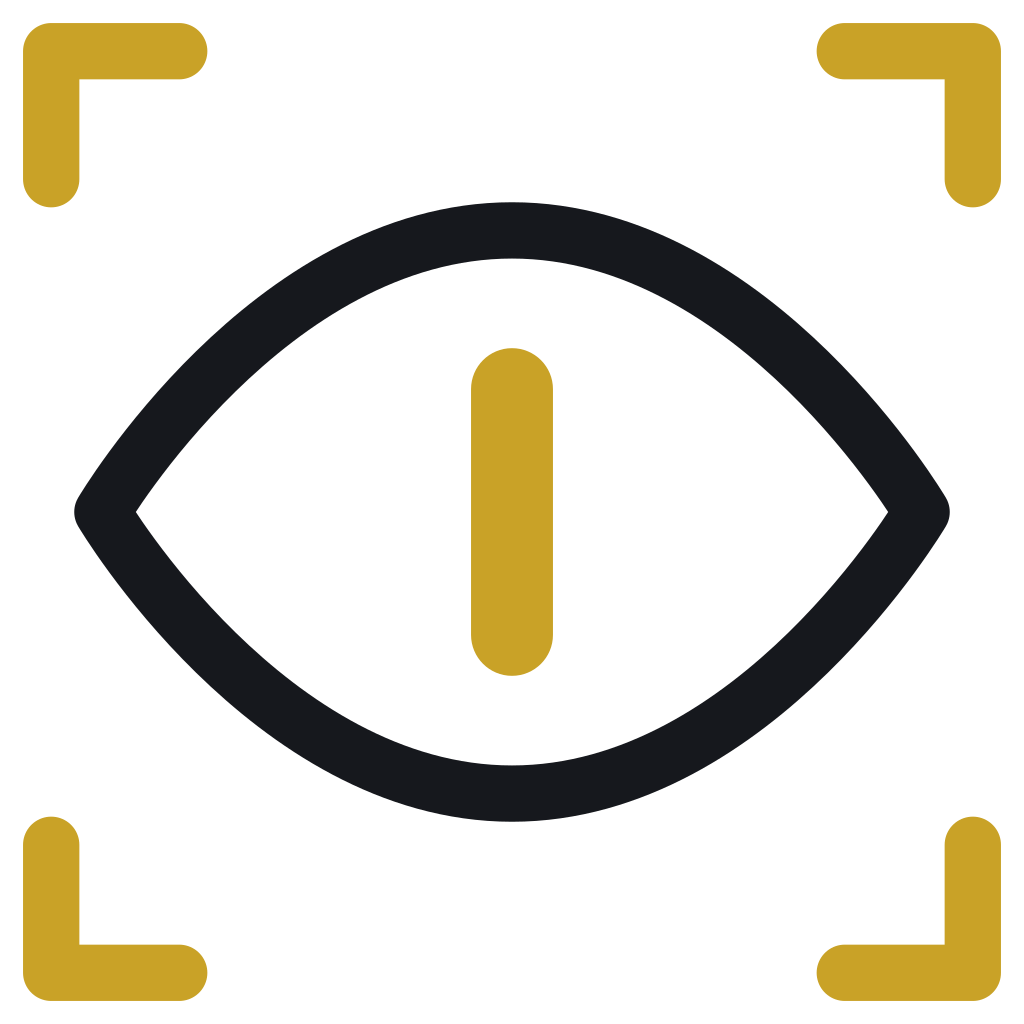
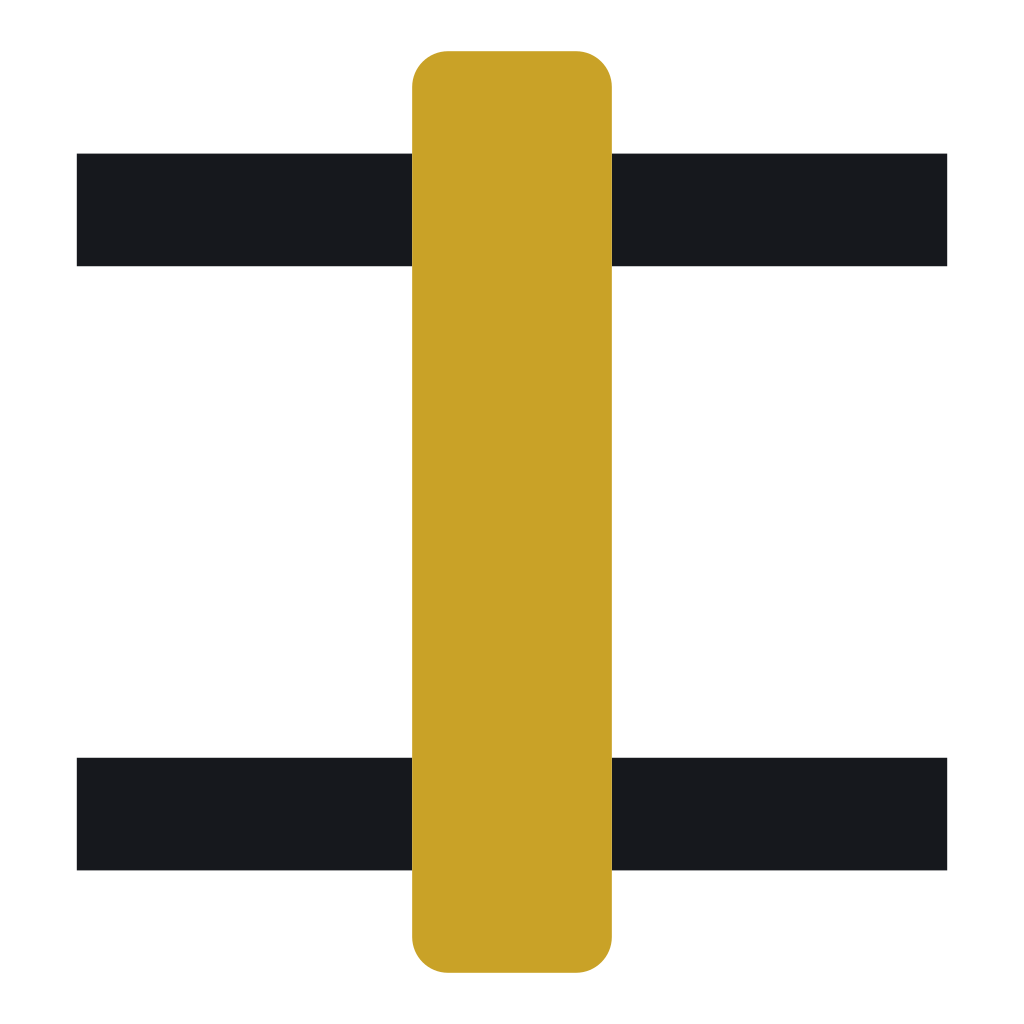
feat: new brand mark — a direct line through the layers (#2)
Replaces the eye-and-reticle mark, which used two security-branding clichés at once, with a direct line through the layers: two ink rails interrupted by a single unbroken gold stem, silhouetted as a capital I for Invision and for the first-person-singular voice.

Geometry stays centralised in src/lib/brand.ts and mirrored in the generator, so all 20 downloadable assets regenerate from one definition. Favicon and mobile header use the ink tile so the gold stem carries at 16px.

diff --git a/src/lib/brand.ts b/src/lib/brand.ts
@@ -1,10 +1,18 @@
 /**
  * Invision Solutions brand geometry.
  *
- * The mark is a lens: two mirrored arcs forming an eye, with a vertical bar at
- * its centre. It reads as "in-vision" — seeing clearly — and as the letter I of
- * Invision, the bar doubling as an iris. The four corner ticks are a scan
- * reticle, carrying the Zero Trust "verify, don't assume" idea into the mark.
+ * The mark is a direct line through the layers. Two ink rails sit where the
+ * intermediaries in a conventional consultancy would be — the account manager,
+ * the junior, the chain of approvals — and a single gold stem passes straight
+ * through both without stopping at either. The rails are interrupted where it
+ * passes, so the stem is visibly unbroken.
+ *
+ * The silhouette is a capital I, which carries two meanings at once: Invision,
+ * and the first person singular the whole brand is written in. "I", not "we".
+ *
+ * Deliberately not an eye, shield, padlock, or scan reticle. Current design
+ * guidance has the market oversaturated with those, and the previous mark used
+ * two of them.
  *
  * These constants are mirrored in scripts/generate-brand-assets.mjs, which
  * produces the downloadable files in public/brand/. Change both together.
@@ -19,17 +27,48 @@ export const BRAND_COLOURS = {
   slate: "#5C6068",
 } as const;
 
-/** Lens outline — two mirrored arcs meeting at left and right points. */
-export const LENS_PATH =
-  "M4 20C4 20 10.5 9 20 9C29.5 9 36 20 36 20C36 20 29.5 31 20 31C10.5 31 4 20 4 20Z";
+/** Horizontal extent of the rails, and the gap the stem passes through. */
+export const RAIL = {
+  left: 3,
+  right: 37,
+  gapLeft: 16.1,
+  gapRight: 23.9,
+  thickness: 4.4,
+  topY: 6,
+  bottomY: 29.6,
+} as const;
 
-/** The iris / letter-I bar at the centre of the lens. */
-export const IRIS = { x: 18.4, y: 13.6, w: 3.2, h: 12.8, r: 1.6 } as const;
+/**
+ * A rail, split either side of the stem. Drawn as one path with two subpaths
+ * so the interruption is part of the geometry rather than something layered
+ * on top — it stays correct when the mark is recoloured or scaled.
+ */
+export function railPath(y: number, thickness = RAIL.thickness): string {
+  return (
+    `M${RAIL.left} ${y} H${RAIL.gapLeft} V${y + thickness} H${RAIL.left} Z ` +
+    `M${RAIL.gapRight} ${y} H${RAIL.right} V${y + thickness} H${RAIL.gapRight} Z`
+  );
+}
 
-/** Corner reticle ticks — the verification motif. */
-export const RETICLE_PATHS = [
-  "M2 7V2H7",
-  "M33 2H38V7",
-  "M38 33V38H33",
-  "M7 38H2V33",
-] as const;
+/** The gold stem. Overshoots both rails so it reads as passing through them. */
+export const STEM = { x: 16.1, y: 2, w: 7.8, h: 36, r: 1.4 } as const;
+
+/** Tile-inset variant — tighter, so the glyph clears a rounded tile's corners. */
+export const TILE_GLYPH = {
+  railLeft: 7,
+  railRight: 33,
+  gapLeft: 17.1,
+  gapRight: 22.9,
+  thickness: 3.8,
+  topY: 11.5,
+  bottomY: 24.7,
+  stem: { x: 17.1, y: 8, w: 5.8, h: 24, r: 1.2 },
+} as const;
+
+export function tileRailPath(y: number): string {
+  const t = TILE_GLYPH;
+  return (
+    `M${t.railLeft} ${y} H${t.gapLeft} V${y + t.thickness} H${t.railLeft} Z ` +
+    `M${t.gapRight} ${y} H${t.railRight} V${y + t.thickness} H${t.gapRight} Z`
+  );
+}

diff --git a/src/components/logo.tsx b/src/components/logo.tsx
@@ -1,37 +1,48 @@
-import { LENS_PATH, IRIS, RETICLE_PATHS } from "@/lib/brand";
+import { RAIL, STEM, TILE_GLYPH, railPath, tileRailPath } from "@/lib/brand";
 
 type Tone = "light" | "dark";
 
+/**
+ * Bare mark — rails in the foreground colour, stem always gold. The stem is
+ * the constant: it is the thing that reads as Invision at a glance.
+ */
 function MarkArtwork({ tone }: { tone: Tone }) {
-  const stroke = tone === "dark" ? "var(--color-paper)" : "var(--color-ink)";
+  const rails = tone === "dark" ? "var(--color-paper)" : "var(--color-ink)";
   return (
     <>
-      <path
-        d={LENS_PATH}
-        stroke={stroke}
-        strokeWidth="2.2"
-        strokeLinejoin="round"
-        fill="none"
-      />
+      <path d={railPath(RAIL.topY)} fill={rails} />
+      <path d={railPath(RAIL.bottomY)} fill={rails} />
       <rect
-        x={IRIS.x}
-        y={IRIS.y}
-        width={IRIS.w}
-        height={IRIS.h}
-        rx={IRIS.r}
+        x={STEM.x}
+        y={STEM.y}
+        width={STEM.w}
+        height={STEM.h}
+        rx={STEM.r}
         fill="var(--color-gold)"
       />
-      {RETICLE_PATHS.map((d) => (
-        <path
-          key={d}
-          d={d}
-          stroke="var(--color-gold)"
-          strokeWidth="2.2"
-          strokeLinecap="round"
-          strokeLinejoin="round"
-          fill="none"
-        />
-      ))}
+    </>
+  );
+}
+
+/** Tile variant — a solid field so the mark stays assertive on any backdrop. */
+function TileArtwork({ tone }: { tone: Tone }) {
+  const field = tone === "dark" ? "var(--color-ink)" : "var(--color-gold)";
+  const rails = tone === "dark" ? "var(--color-paper)" : "var(--color-ink)";
+  const stem = tone === "dark" ? "var(--color-gold)" : "var(--color-ink)";
+  const g = TILE_GLYPH;
+  return (
+    <>
+      <rect width="40" height="40" rx="9" fill={field} />
+      <path d={tileRailPath(g.topY)} fill={rails} />
+      <path d={tileRailPath(g.bottomY)} fill={rails} />
+      <rect
+        x={g.stem.x}
+        y={g.stem.y}
+        width={g.stem.w}
+        height={g.stem.h}
+        rx={g.stem.r}
+        fill={stem}
+      />
     </>
   );
 }
@@ -54,29 +65,14 @@ function LogoMark({
       xmlns="http://www.w3.org/2000/svg"
       aria-hidden="true"
     >
-      {tile ? (
-        <>
-          <rect
-            width="40"
-            height="40"
-            rx="9"
-            fill={tone === "dark" ? "var(--color-ink)" : "var(--color-panel)"}
-          />
-          {/* Inset so the reticle ticks clear the tile's rounded corners. */}
-          <g transform="translate(5 5) scale(0.75)">
-            <MarkArtwork tone={tone} />
-          </g>
-        </>
-      ) : (
-        <MarkArtwork tone={tone} />
-      )}
+      {tile ? <TileArtwork tone={tone} /> : <MarkArtwork tone={tone} />}
     </svg>
   );
 }
 
 /**
  * Full lockup. The wordmark splits as In | vision — the two-tone treatment is
- * the point of the name, not decoration.
+ * the point of the name, not decoration, and it echoes the mark's gold stem.
  */
 function LogoLockup({
   size = 32,

diff --git a/src/app/brand/page.tsx b/src/app/brand/page.tsx
@@ -33,13 +33,13 @@ const FULL_LOGO: Asset[] = [
 
 const ICON: Asset[] = [
   { file: "invision-icon.svg", title: "SVG — transparent", note: "Vector · works on light backgrounds" },
-  { file: "invision-icon-dark.svg", title: "SVG — for dark backgrounds", note: "Vector · light lens stroke", dark: true },
+  { file: "invision-icon-dark.svg", title: "SVG — for dark backgrounds", note: "Vector · light rails, gold stem", dark: true },
   { file: "invision-icon-square.svg", title: "SVG — rounded tile", note: "For platforms that apply their own mask" },
   { file: "invision-icon-2048.png", title: "PNG — 2048px", note: "Transparent corners" },
   { file: "invision-icon-1024.png", title: "PNG — 1024px", note: "Transparent corners" },
   { file: "invision-icon-512.png", title: "PNG — 512px", note: "App icon size" },
   { file: "invision-icon-256.png", title: "PNG — 256px", note: "Small icon size" },
-  { file: "invision-favicon.svg", title: "SVG — favicon", note: "Simplified: no reticle, legible at 16px" },
+  { file: "invision-favicon.svg", title: "SVG — favicon", note: "Ink tile · legible at 16px" },
 ];
 
 const WORDMARK: Asset[] = [
@@ -116,10 +116,12 @@ export default function BrandPage() {
             displays.
           </p>
           <p className="mt-4 max-w-2xl text-sm leading-relaxed text-slate">
-            The mark is a lens: an eye whose iris is the letter I of Invision,
-            framed by a scan reticle. It carries both halves of the name —
-            in&nbsp;+&nbsp;vision — and the Zero Trust idea of verifying rather
-            than assuming.
+            The mark is a direct line through the layers. Two rails sit where
+            the intermediaries would be in a conventional consultancy — the
+            account manager, the junior, the chain of approvals — and a single
+            gold stem passes straight through both without stopping at either.
+            The silhouette is a capital&nbsp;I: Invision, and the first person
+            singular this whole brand is written in.
           </p>
         </Reveal>
       </Section>

diff --git a/src/app/icon.tsx b/src/app/icon.tsx
@@ -1,32 +1,30 @@
 import { ImageResponse } from "next/og";
-import { LENS_PATH, IRIS, BRAND_COLOURS } from "@/lib/brand";
+import { TILE_GLYPH, tileRailPath, BRAND_COLOURS } from "@/lib/brand";
 
 export const size = { width: 32, height: 32 };
 export const contentType = "image/png";
 
-/** Simplified mark — the reticle is dropped, which is illegible at 32px. */
+/**
+ * Favicon. Uses the ink tile so the mark holds its own against a browser's
+ * chrome in either theme — a transparent glyph disappears against a dark tab
+ * strip, and the gold stem needs a dark field to carry at 32px.
+ */
 export default function Icon() {
+  const g = TILE_GLYPH;
   return new ImageResponse(
     (
       <svg width={32} height={32} viewBox="0 0 40 40" fill="none" xmlns="http://www.w3.org/2000/svg">
-        <rect width="40" height="40" rx="8" fill={BRAND_COLOURS.paper} />
-        <g transform="translate(20 20) scale(1.16) translate(-20 -20)">
-          <path
-            d={LENS_PATH}
-            stroke={BRAND_COLOURS.ink}
-            strokeWidth="2.6"
-            strokeLinejoin="round"
-            fill="none"
-          />
-          <rect
-            x={IRIS.x}
-            y={IRIS.y}
-            width={IRIS.w}
-            height={IRIS.h}
-            rx={IRIS.r}
-            fill={BRAND_COLOURS.gold}
-          />
-        </g>
+        <rect width="40" height="40" rx="9" fill={BRAND_COLOURS.ink} />
+        <path d={tileRailPath(g.topY)} fill={BRAND_COLOURS.paper} />
+        <path d={tileRailPath(g.bottomY)} fill={BRAND_COLOURS.paper} />
+        <rect
+          x={g.stem.x}
+          y={g.stem.y}
+          width={g.stem.w}
+          height={g.stem.h}
+          rx={g.stem.r}
+          fill={BRAND_COLOURS.gold}
+        />
       </svg>
     ),
     size,

diff --git a/src/app/opengraph-image.tsx b/src/app/opengraph-image.tsx
@@ -1,5 +1,5 @@
 import { ImageResponse } from "next/og";
-import { LENS_PATH, IRIS, RETICLE_PATHS, BRAND_COLOURS } from "@/lib/brand";
+import { RAIL, STEM, railPath, BRAND_COLOURS } from "@/lib/brand";
 
 export const size = { width: 1200, height: 630 };
 export const contentType = "image/png";
@@ -20,32 +20,16 @@ export default function OpengraphImage() {
       >
         <div style={{ display: "flex", alignItems: "center", gap: 18 }}>
           <svg width={64} height={64} viewBox="0 0 40 40" fill="none">
-            <path
-              d={LENS_PATH}
-              stroke={BRAND_COLOURS.ink}
-              strokeWidth="2.2"
-              strokeLinejoin="round"
-              fill="none"
-            />
+            <path d={railPath(RAIL.topY)} fill={BRAND_COLOURS.ink} />
+            <path d={railPath(RAIL.bottomY)} fill={BRAND_COLOURS.ink} />
             <rect
-              x={IRIS.x}
-              y={IRIS.y}
-              width={IRIS.w}
-              height={IRIS.h}
-              rx={IRIS.r}
+              x={STEM.x}
+              y={STEM.y}
+              width={STEM.w}
+              height={STEM.h}
+              rx={STEM.r}
               fill={BRAND_COLOURS.gold}
             />
-            {RETICLE_PATHS.map((d) => (
-              <path
-                key={d}
-                d={d}
-                stroke={BRAND_COLOURS.gold}
-                strokeWidth="2.2"
-                strokeLinecap="round"
-                strokeLinejoin="round"
-                fill="none"
-              />
-            ))}
           </svg>
           <div style={{ display: "flex", fontSize: 42, fontWeight: 600 }}>
             <span style={{ color: BRAND_COLOURS.ink }}>In</span>

diff --git a/src/components/header.tsx b/src/components/header.tsx
@@ -25,8 +25,10 @@ function Header() {
           <span className="hidden sm:inline-flex">
             <LogoLockup size={30} />
           </span>
+          {/* Tile on mobile: the bare mark reads too quietly next to the
+              hamburger, and the solid field holds its own at this size. */}
           <span className="inline-flex sm:hidden">
-            <LogoMark size={30} />
+            <LogoMark size={32} tile />
           </span>
         </Link>
 
